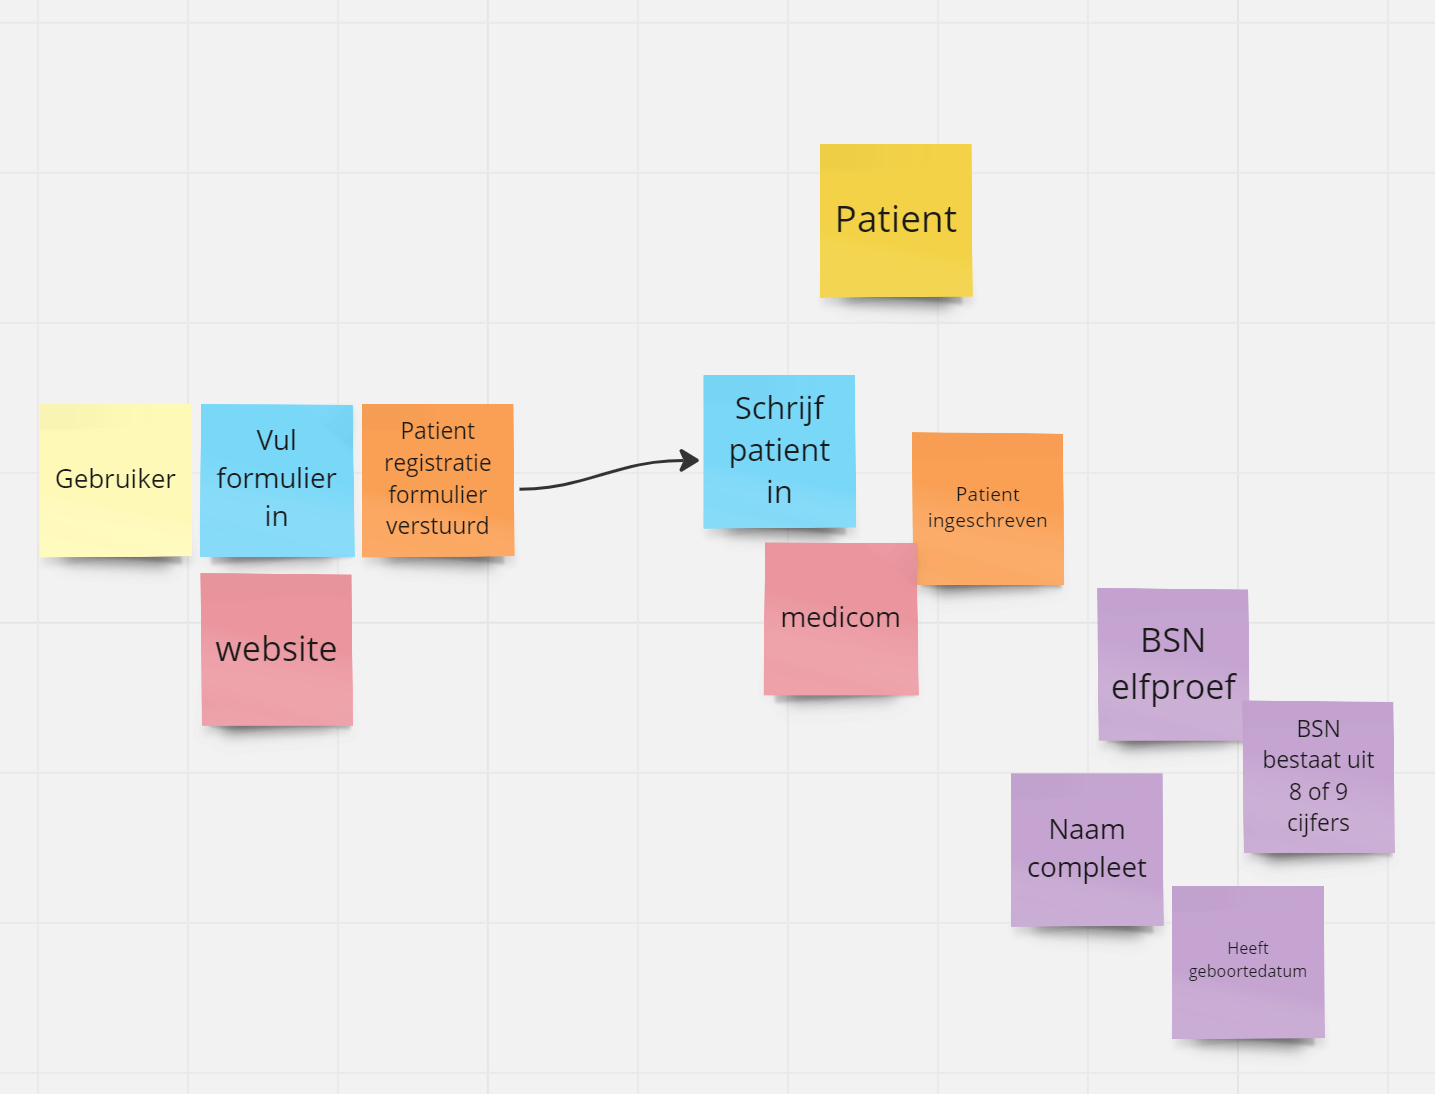
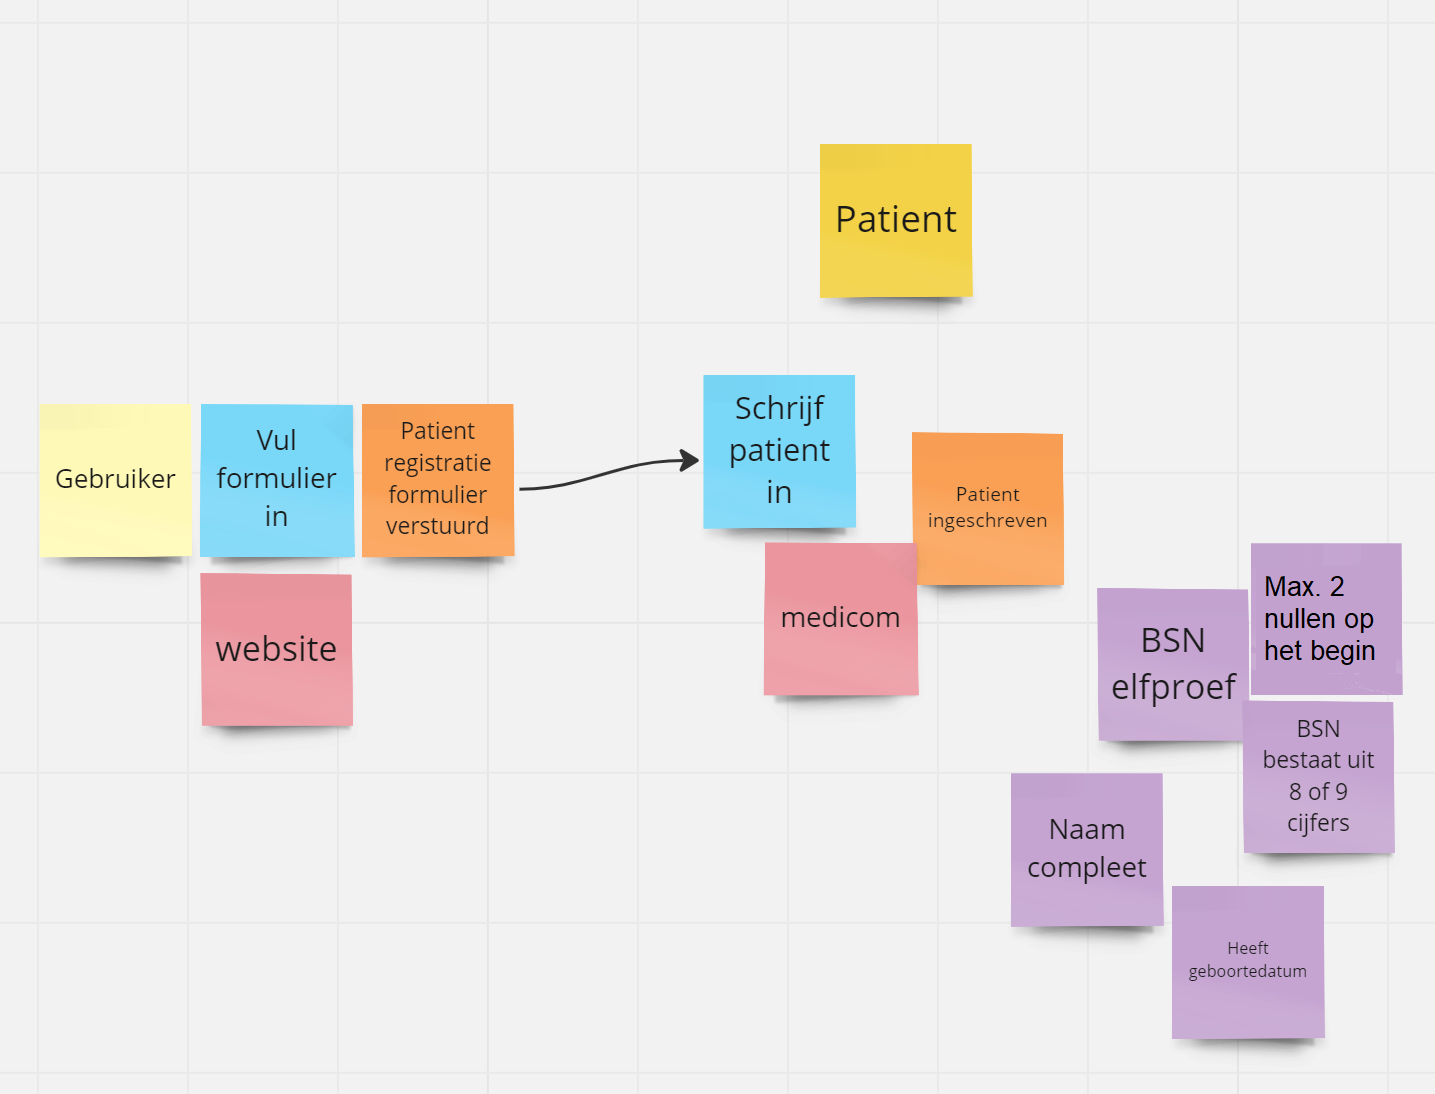
Made some minor adjustments in the image and BSN class

Changed region(s): [[0.8585, 0.4973, 0.9812, 0.6527]]

diff --git a/src/main/java/nl/pharmapartners/ddd/domain/model/BurgerServiceNummer.java b/src/main/java/nl/pharmapartners/ddd/domain/model/BurgerServiceNummer.java
@@ -6,10 +6,10 @@ import lombok.Data;
 //TODO 2: add the proper annotation from the annotations package here
 public class BurgerServiceNummer {
     
-    private long burgerServiceNummer;
+    private String burgerServiceNummer;
     public BurgerServiceNummer(String burgerServiceNummer) {
         validateInput(burgerServiceNummer);
-        this.burgerServiceNummer = Long.parseLong(burgerServiceNummer);
+        this.burgerServiceNummer = burgerServiceNummer;
     }
 
     private void validateInput(String burgerServiceNummer) {

diff --git a/README.md b/README.md
@@ -21,8 +21,9 @@ For some of these assignments below there are TODO's in the project. You can see
 1. Learn about the differences between ValueObjects and Entities. You can use [this website](https://blog.jannikwempe.com/domain-driven-design-entities-value-objects#heading-building-blocks-of-ddd) or [this one](https://afedyanin.wordpress.com/2016/04/27/ddd-tactical-design-patterns/). Or just Google it.
 2. Now that you know the differences put the correct annotation on each class in the model package of the project.
 3. Given the outcome of the event storm, in which we determined our ubiquitous language, apply the proper names to the methods in the domain service and repository.
-4. In the application in its current state, data is stored in a H2 (in-memory) database. What would happen when the data should be written to another database (e.g. mongodb)? How would this affect our code? Would the domain layer change? And what about the infrastructure layer?
+4. In the application in its current state, data is stored in a H2 (in-memory) database. What would happen when the data should be written to another database (e.g. mongodb or postgres)? How would this affect our code? Would the domain layer change? And what about the infrastructure layer?
 5. Apply the business logic for the BSN. See the policy sticky notes (purple) in the event storm picture. Ensure that all the logic is implemented in the domain package and all corresponding unit tests (in BurgerServiceNummerTest.java) pass.
 6. Apply the business logic for Naam. Ensure that all the logic is implemented in the domain package and all corresponding unit tests (in NaamTest.java) pass.
 7. Optional: Add a tussenvoegsel in the Naam and ensure that this can be stored in the database
 8. Optional: When a General Practitioner wants to 'delete' a patient from his/her active patient base, how could this be implemented? What methods would be needed. And are changes in the db needed? You can apply this in the application if you want.
+9. Optional: Look at the Eventstorm image. This is a simplified representation of registering a patient. Try to draw an event storm of a process within the general practice (huisartsenpraktijk). E.g. making an appointment with a doctor. Or actually visiting a doctor. You can use the workshop hosts for input if you want. 
